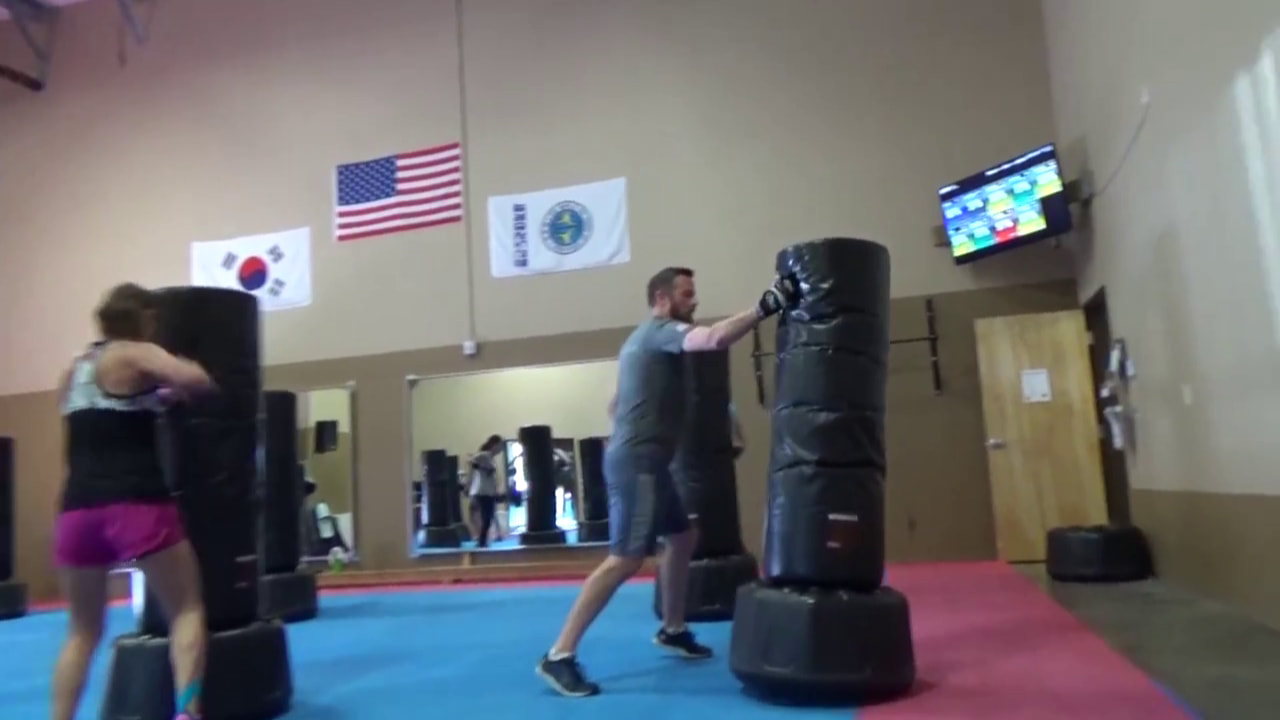
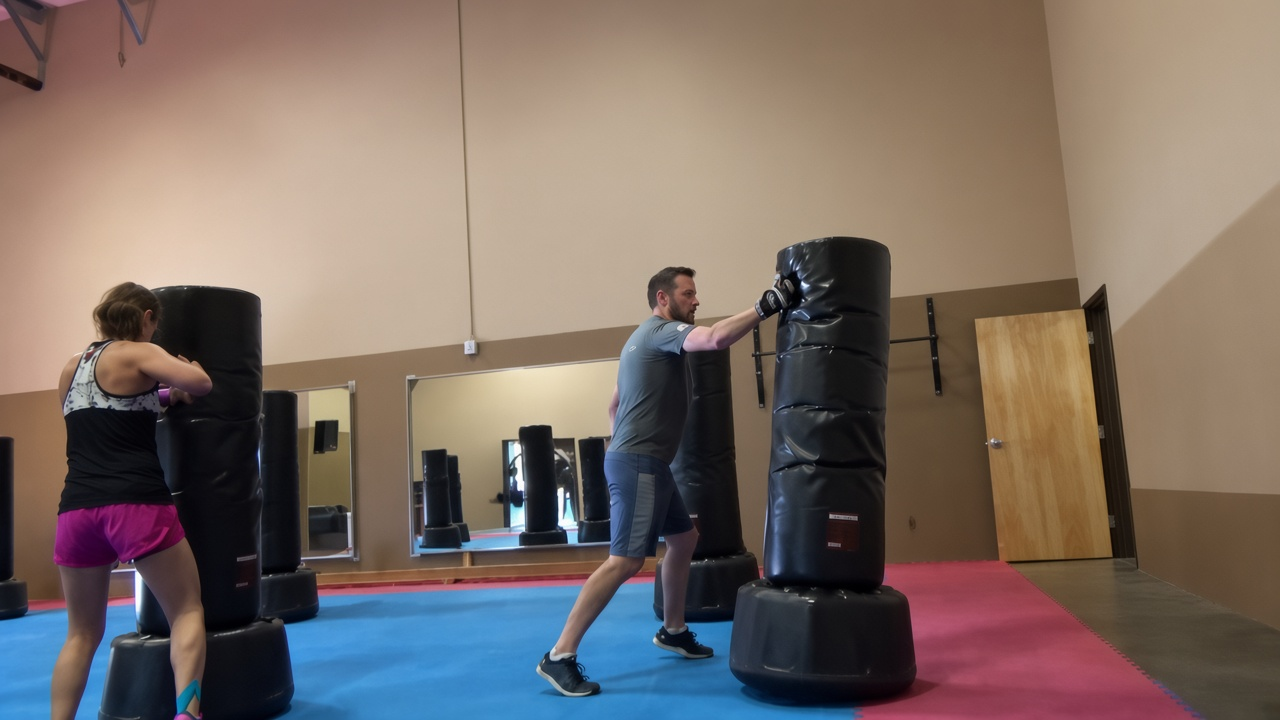
Replace fitness photos with Duncan-approved AI cleanup
Duncan approved all six AI denoise + décor cleanup candidates
(2026-10-25), including Rachel. Overwrite same basenames so imports
keep working. Framing CSS already on astro-rebuild via PR #24.

diff --git a/docs/agents/WORKLOG.md b/docs/agents/WORKLOG.md
@@ -7,6 +7,16 @@ Shared log for every AI agent working on this repo (Claude Code, Grok, …). Rul
 - Deploys, env var changes and DNS changes also go in `docs/agents/DEPLOYED.md`.
 - Never paste secrets here.
 
+## 2026-10-25 — Grok — `grok/fitness-ai-photos` (off `astro-rebuild`)
+
+**Changed:** Duncan approved AI denoise + décor cleanup candidates 2026-10-25 (“All are great, including Rachel!”). Replaced six fitness JPEGs in `src/assets/photos/` with approved AI candidates (same basenames so Astro imports keep working): `rhea-kickboxing.jpg`, `rachel-fitness.jpg`, `anna-kickboxing.jpg`, `lisa-kickboxing.jpg`, `kristin-kickboxing.jpg`, `dave-kickboxing.jpg` (dave = v2 hero). Grain/denoise + wall belts/flags cleanup; framing CSS already landed in PR #24 (`6dec029`). No page/markup changes.
+**Conversion:** Sharper, cleaner gym photos on `/fitness-classes` — less dojo clutter, less compression grain — so proof shots support the kickboxing/SGX pitch instead of undercutting it.
+**Evidence:** Build (Node 22) + `verify-dist` + `check:redirects` (see commit). Files are JPEG (`FF D8`); sizes ~187–219KB (was ~8–96KB for the tiny thumbs).
+**Live vs committed:** Preview only once pushed. Merge into `astro-rebuild` per Duncan own-it; not `main`; Weebly still prod; DNS untouched.
+**Open questions:** None — Duncan approved all six including Rachel.
+**Handoff:** Do not merge PR #1 without Duncan. Refresh laptop preview after this merges to `astro-rebuild`.
+
+
 Template:
 
 ```markdown
